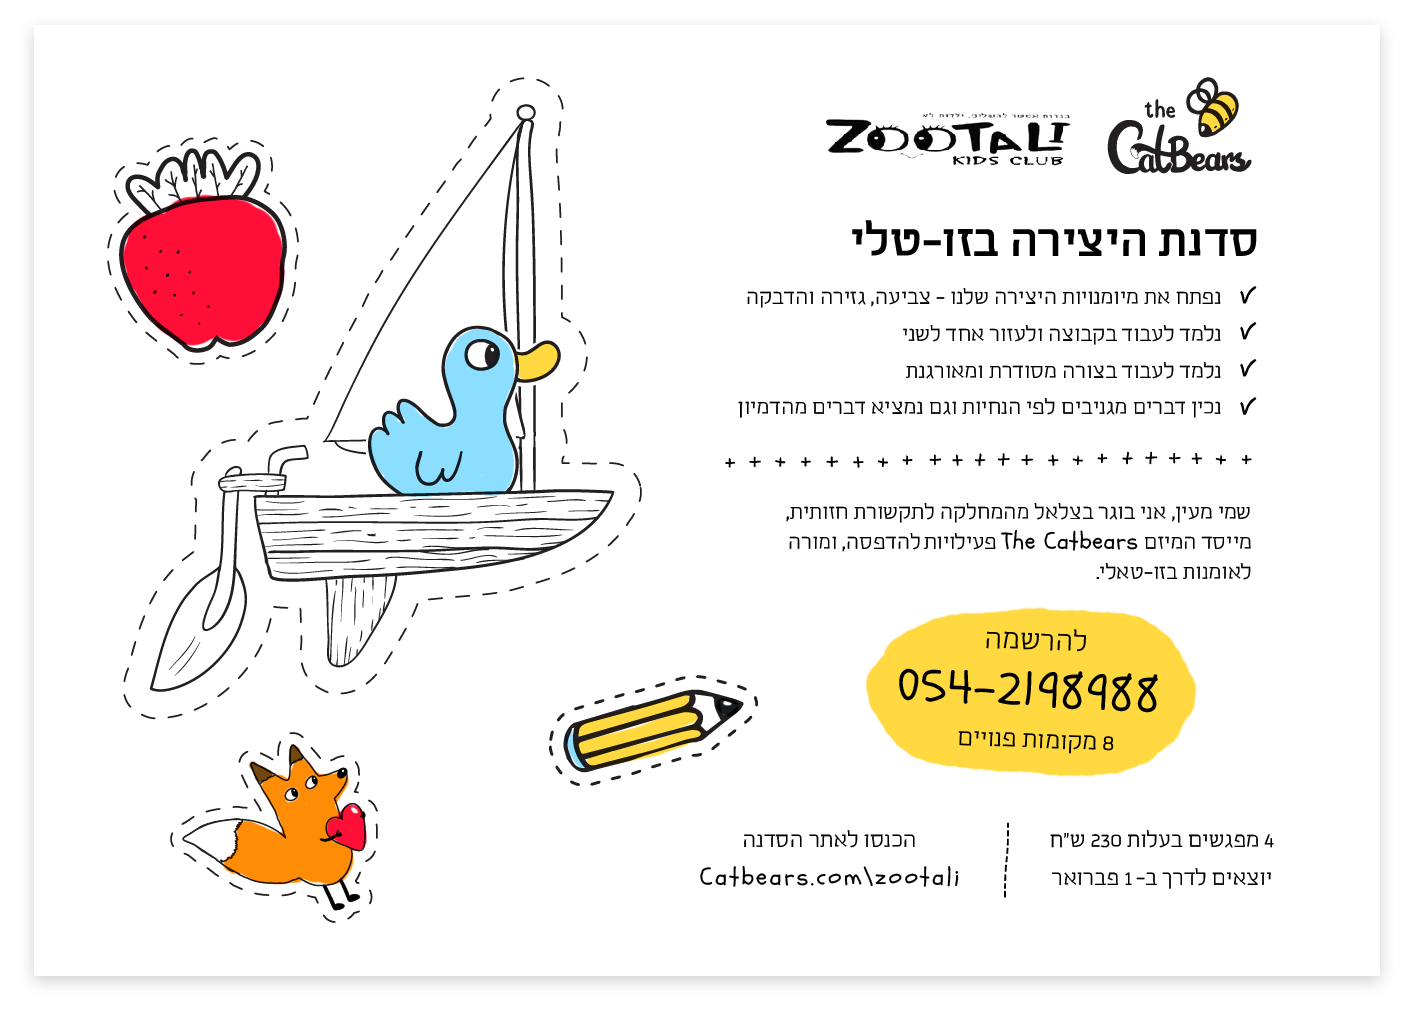
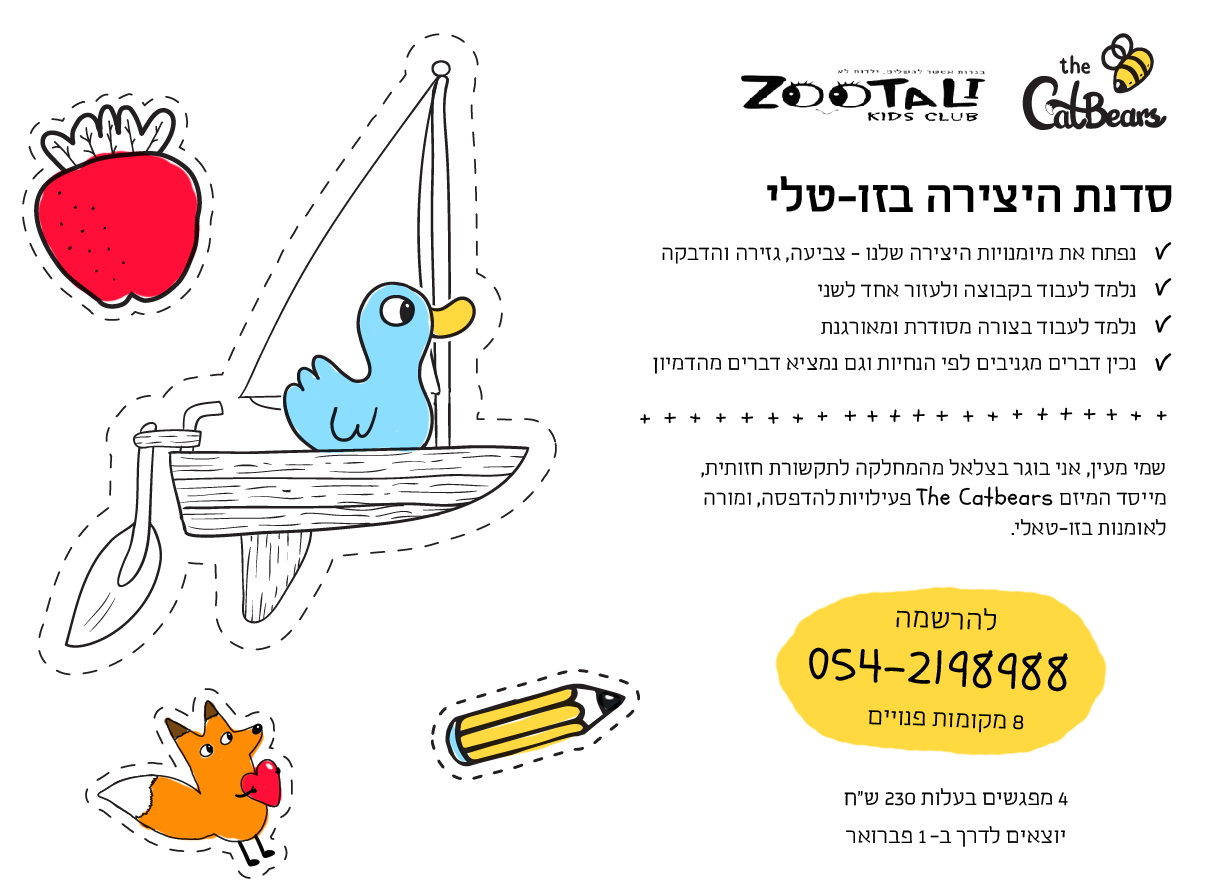
zootali invitation - mobile support

diff --git a/app/scss/israel.scss b/app/scss/israel.scss
@@ -35,7 +35,7 @@ body {
 .zootali-invitation {
 	width: 100%;
 	max-width: 1200px;
-	padding : 0 50px ;
+	// padding : 0 50px ;
 	margin: 0 auto ;
 	text-align: center;
 	margin-bottom: 90px;
@@ -45,17 +45,29 @@ body {
 .zootali-invitation img {
 	width: 100%;
 	max-width: 1200px;
-	padding : 0 50px ;
+	// padding : 0 50px ;
 	margin: 10px auto 0px;
 	text-align: center;
 }
 
-
-.zootali-invitation img , .zootali-invitation h3  {
-transform: rotate(-3.5deg);
-  -ms-transform: rotate(-3.5deg); /* IE 9 */
-  -webkit-transform: rotate(-3.5deg); /* Chrome, Safari, Opera */
+.print-zootali-invitation  {
+	margin-top: -50px;
 }
+
+.mobile-img {
+	display: none;
+}
+
+
+#lower-site h2 {
+	font-size: 24px;
+}
+
+// .zootali-invitation img , .zootali-invitation h3  {
+// transform: rotate(-3.5deg);
+//   -ms-transform: rotate(-3.5deg); /* IE 9 */
+//   -webkit-transform: rotate(-3.5deg); /* Chrome, Safari, Opera */
+// }
 
 .logo-container {
   display: flex;
@@ -72,12 +84,26 @@ transform: rotate(-3.5deg);
 
 @media(max-width: 1200px) {
 	.zootali-invitation img {
-		padding : 0 20px ;
+		// padding : 0 20px ;
 	}
 }
 
 @media(max-width: 580px) {
 	.zootali-invitation img {
 		padding : 0px ;
+	}
+
+	.mobile-img {
+		display: block;
+	}
+	.desktop-img {
+		display: none;
+	}
+
+	#lower-site {
+		margin-bottom: 40px;
+	}
+	.subscribe-wrapper h2 {
+		display: none;
 	}
 }
